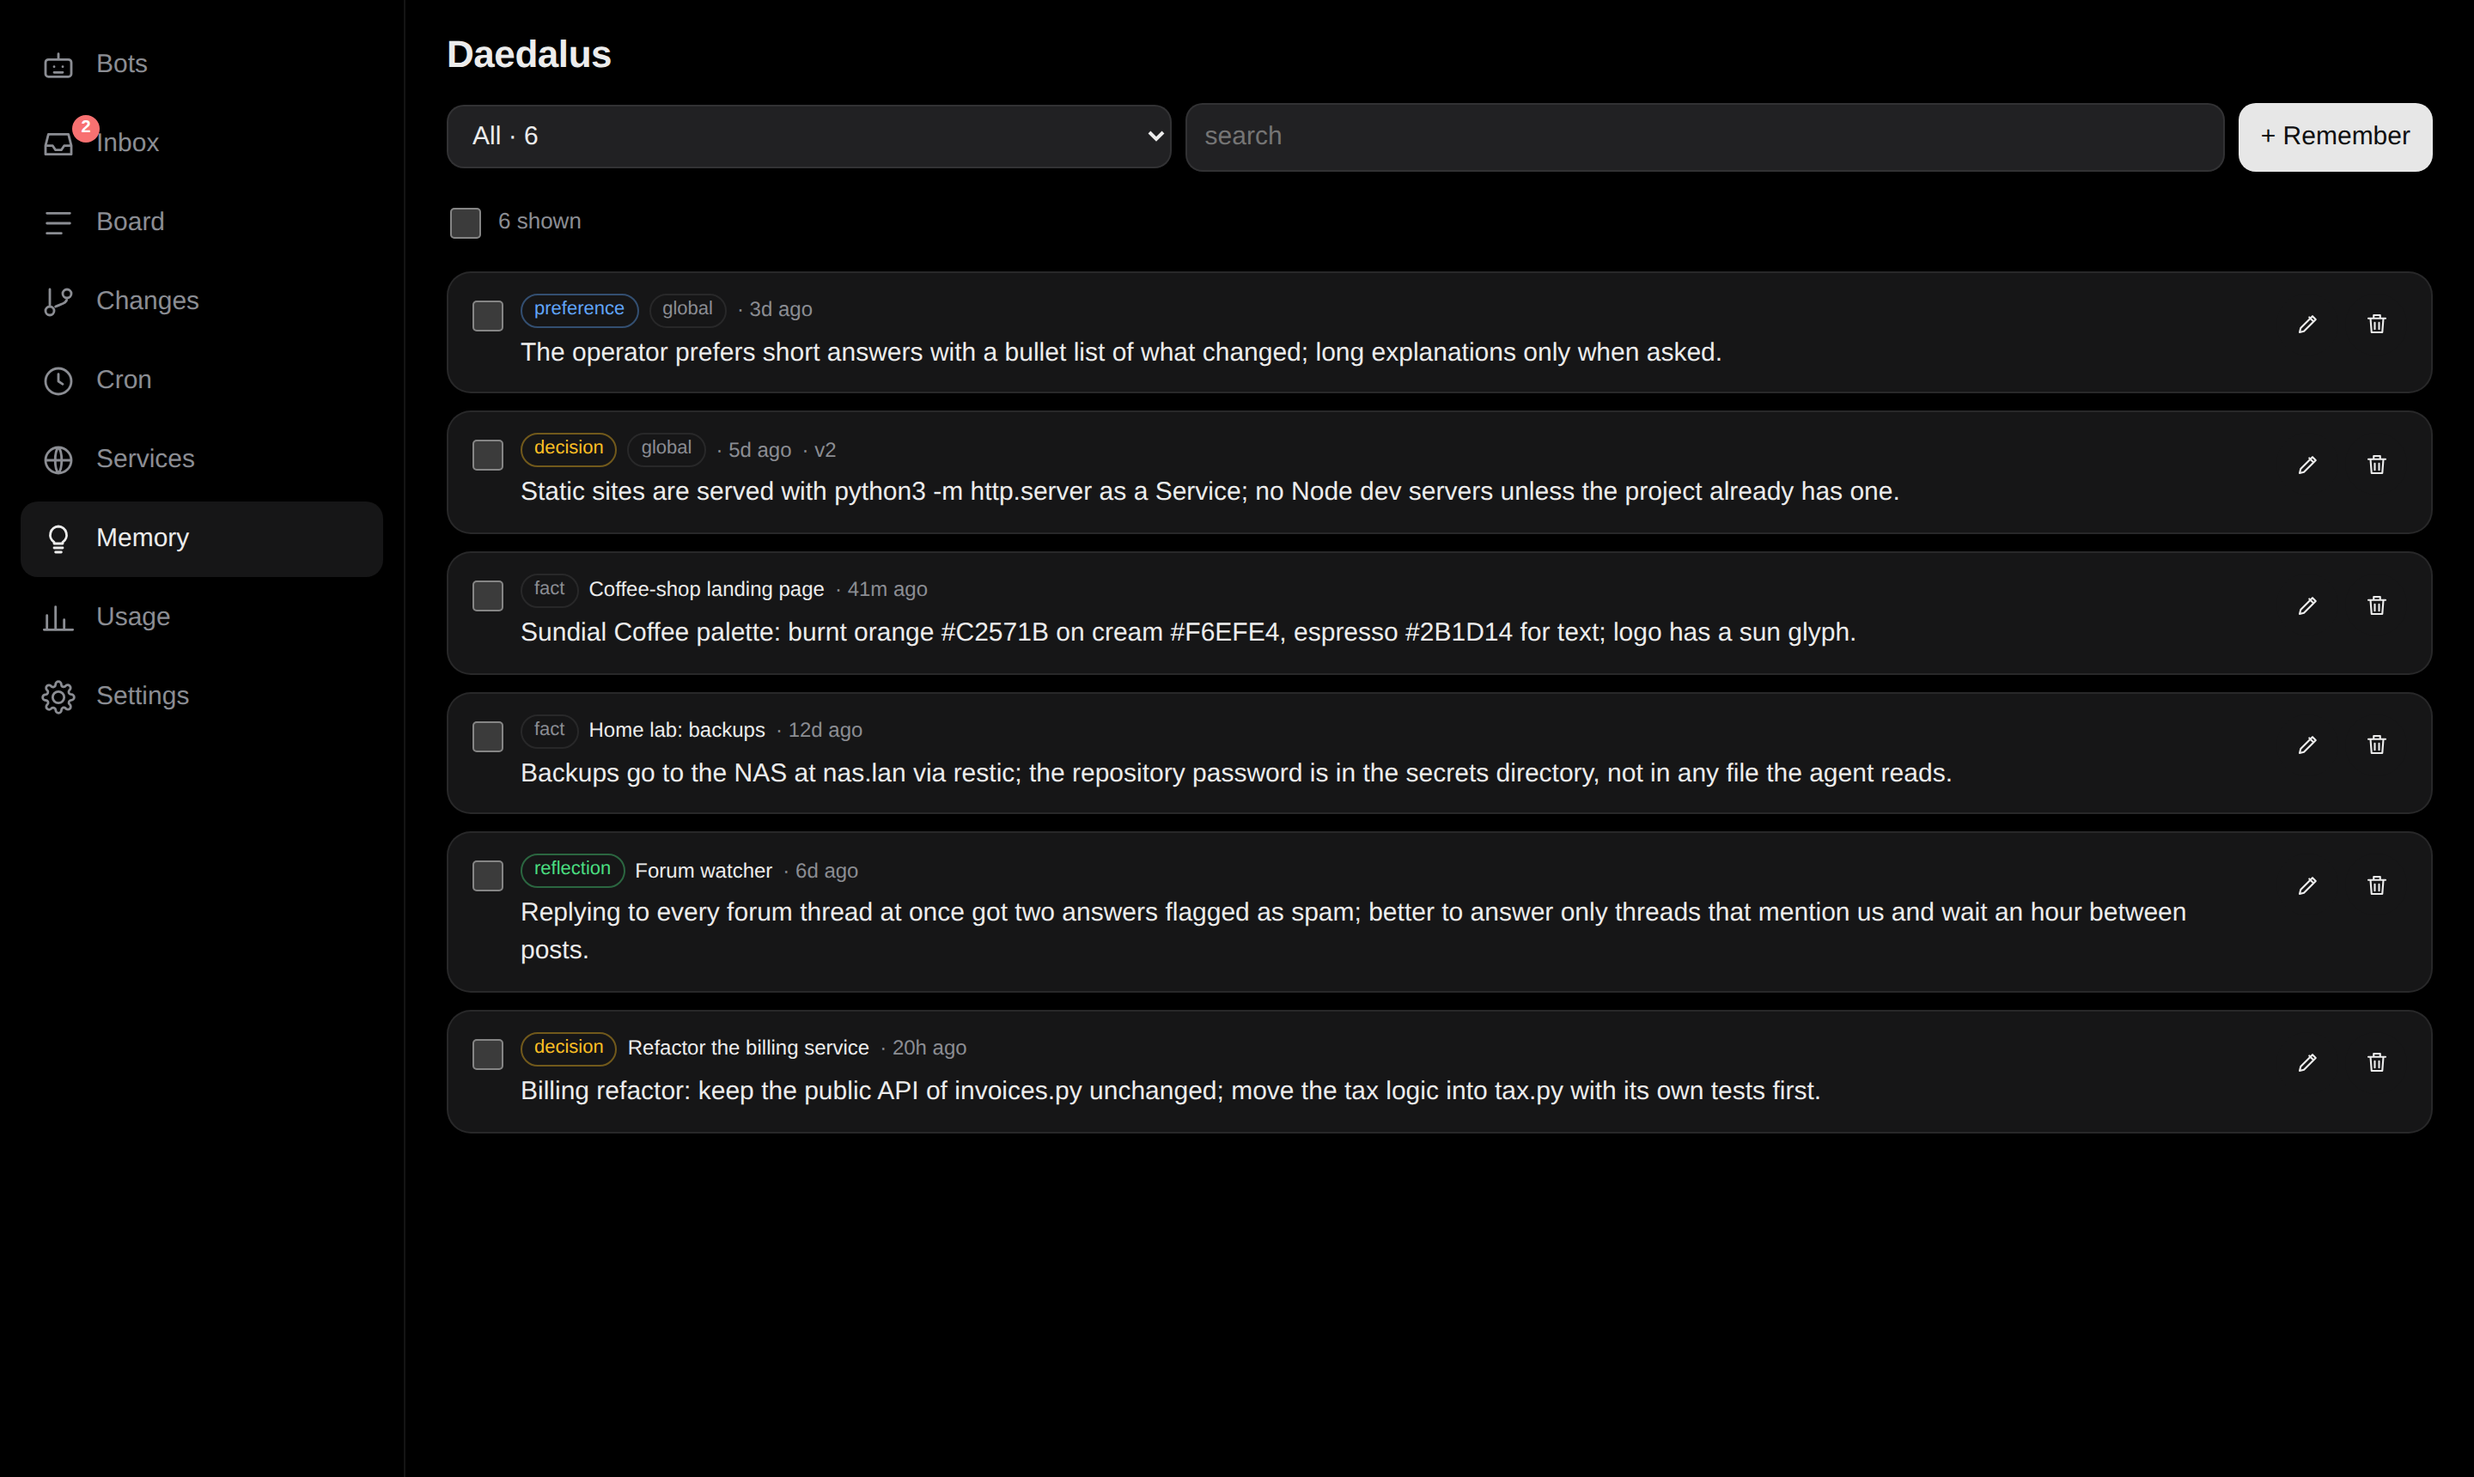
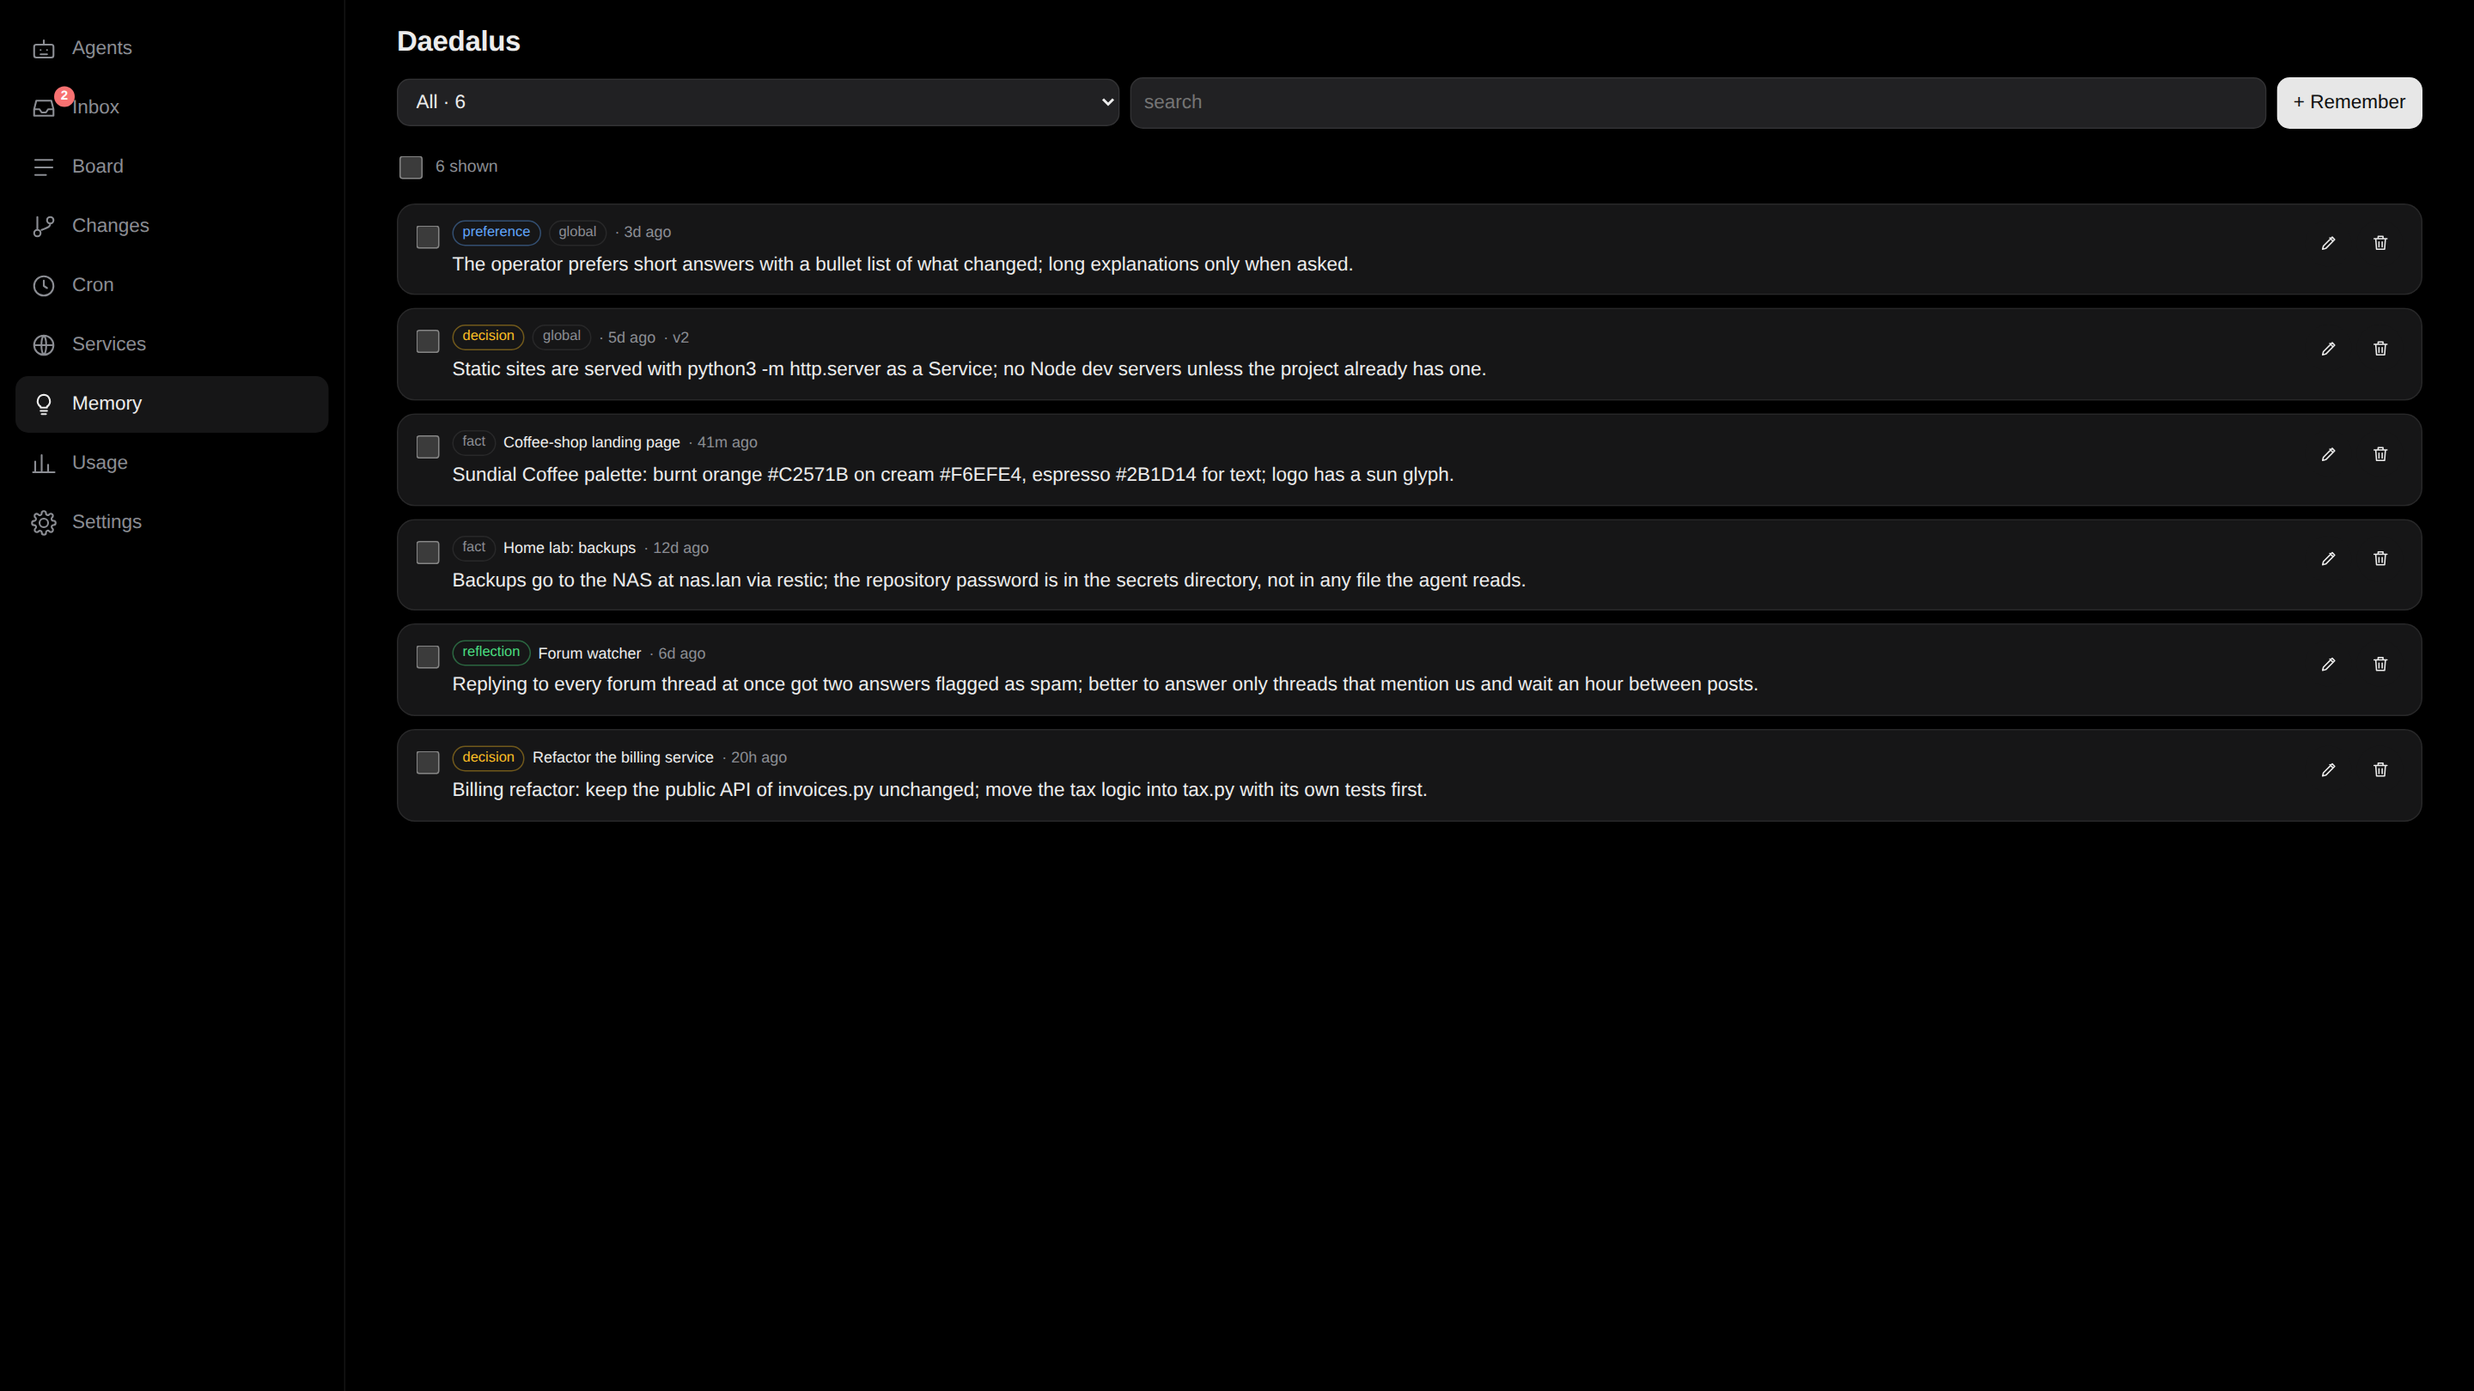
README: styled diagram renders, screenshots at desk resolution; Bots is Agents
The mermaid sources stay in docs/diagrams beside the PNGs. The preview in the
earlier files screenshot showed PNG bytes because the stand-in API served
every download as the logo; the app itself was right.

diff --git a/miniapp/src/screens/Sessions.tsx b/miniapp/src/screens/Sessions.tsx
@@ -86,7 +86,7 @@ export function SessionsScreen({ onOpen, toast }: { onOpen: (id: string) => void
     <>
       <div className="btnrow" style={{ marginTop: 0, marginBottom: 12 }}>
         <button className="btn primary" onClick={() => setCreating((v) => !v)}>
-          {creating ? "Cancel" : "+ New bot"}
+          {creating ? "Cancel" : "+ New agent"}
         </button>
         <button className={`btn ${showWorkspaces ? "primary" : ""}`} onClick={() => setShowWorkspaces((v) => !v)} title="The directories sessions work in">
           <Icon name="folder" size={15} /> Workspaces
@@ -139,7 +139,7 @@ export function SessionsScreen({ onOpen, toast }: { onOpen: (id: string) => void
         </div>
       )}
       {sessions === null && <div className="empty">Loading…</div>}
-      {sessions !== null && sessions.length === 0 && <div className="empty">No sessions yet. Create one, or write to the bot in Telegram.</div>}
+      {sessions !== null && sessions.length === 0 && <div className="empty">No agents yet. Create one, or write to the bot in Telegram.</div>}
       {active.length > 0 && <div className="section-title">Active</div>}
       {active.map(group)}
       {rest.length > 0 && <div className="section-title">Roster</div>}

diff --git a/miniapp/src/screens/Session.tsx b/miniapp/src/screens/Session.tsx
@@ -209,7 +209,7 @@ export function SessionScreen({ id, onBack, onOpen, toast, pane, onSplit }: Sess
           toast(`reverted: ${r.dropped} message(s) removed${ws}`);
         } else {
           const r = await api.post<{ id: string; title: string; messages: number }>(`/api/sessions/${id}/fork`, { seq });
-          toast(`forked into "${r.title}" (${r.messages} messages) — open it from the Bots tab`);
+          toast(`forked into "${r.title}" (${r.messages} messages) — open it from the Agents tab`);
         }
         load();
       } catch (e) {

diff --git a/miniapp/src/App.tsx b/miniapp/src/App.tsx
@@ -37,7 +37,7 @@ class ErrorBoundary extends Component<{ children: ReactNode }, { error: Error | 
 }
 
 const TABS: { id: Tab; label: string; icon: IconName }[] = [
-  { id: "sessions", label: "Bots", icon: "bots" },
+  { id: "sessions", label: "Agents", icon: "bots" },
   { id: "inbox", label: "Inbox", icon: "inbox" },
   { id: "board", label: "Board", icon: "board" },
   { id: "proposals", label: "Changes", icon: "changes" },

diff --git a/README.md b/README.md
@@ -45,7 +45,7 @@ Each forum topic is a session with its own workspace. Files in, files out, voice
 <td width="33%" valign="top">
 
 **🖥 A real web app**<br/>
-Roster, live transcripts, file browser with previews (images, Markdown, CSV, PDF, Word, Excel), two sessions side by side, drag-and-drop and clipboard attachments, a microphone. Installable as a PWA.
+Agents, live transcripts, file browser with previews (images, Markdown, CSV, PDF, Word, Excel), two sessions side by side, drag-and-drop and clipboard attachments, a microphone. Installable as a PWA.
 
 </td>
 <td width="33%" valign="top">
@@ -81,11 +81,11 @@ Provider keys live in a key-proxy container that injects them into upstream call
 
 <table>
 <tr>
-<td width="50%"><img src="docs/screenshots/bots.png" alt="The roster: active sessions, subagents under their leaders, loops" /></td>
+<td width="50%"><img src="docs/screenshots/bots.png" alt="Agents: active sessions, subagents under their leaders, loops" /></td>
 <td width="50%"><img src="docs/screenshots/dual.png" alt="Two sessions side by side on a wide screen" /></td>
 </tr>
 <tr>
-<td align="center"><sub>The roster — subagents under their leader, loop agents with their cadence</sub></td>
+<td align="center"><sub>Agents — subagents under their leader, loop agents with their cadence</sub></td>
 <td align="center"><sub>Two sessions side by side; each pane has its own files and settings</sub></td>
 </tr>
 <tr>
@@ -107,7 +107,7 @@ Provider keys live in a key-proxy container that injects them into upstream call
 </table>
 
 <p align="center">
-  <img src="docs/screenshots/phone-bots.png" width="30%" alt="Phone: the roster" />
+  <img src="docs/screenshots/phone-bots.png" width="30%" alt="Phone: agents" />
   <img src="docs/screenshots/phone-session.png" width="30%" alt="Phone: a session" />
   <img src="docs/screenshots/phone-memory.png" width="30%" alt="Phone: memory" />
 </p>
@@ -115,70 +115,21 @@ Provider keys live in a key-proxy container that injects them into upstream call
 
 ## How it is put together
 
-```mermaid
-flowchart LR
-    Op([Operator]) -- Telegram --> TG[telegram-bot-api<br/>local Bot API]
-    Op -- HTTPS --> RP[reverse proxy<br/>your domain]
-    TG --> D
-    RP --> D
+<p align="center"><img src="docs/diagrams/containers.png" alt="Containers: operator → Telegram / reverse proxy → the agent container (supervisor, bot, tools, workspaces, state), key proxy, SearXNG, rebuilder" width="100%" /></p>
 
-    subgraph host["Docker host"]
-        subgraph agent["daedalus container"]
-            SV[supervisor<br/>PID 1 · read-only to the agent] --> D[bot + API + Mini App]
-            D --> T[tools: shell · files · web · vision · MCP · services]
-            T --> WS[(workspaces volume)]
-            D --> ST[(state volume<br/>SQLite · blobs · snapshots)]
-        end
-        KP[key proxy<br/>holds provider keys · daily budget] --> UP[(model providers)]
-        SX[SearXNG<br/>metasearch]
-        RB[rebuilder<br/>only container with the docker socket]
-    end
-
-    D -- "no keys inside" --> KP
-    T --> SX
-    SV -- "trigger file" --> RB
-    RB -- "git reset · build · restart" --> agent
-    T -- "ServiceStart · ports 8100-8119" --> Op
-```
+<sub>Diagram sources: <code>docs/diagrams/</code> is rendered from the mermaid text kept beside the README.</sub>
 
 Five containers, one job each. The agent container has no provider keys and no docker socket; the supervisor and the governance rules are mounted read-only. Services the agent hosts (a demo site, a dev server) listen on a published port range and can be shared through your domain — to anyone, or to whoever holds a key — without opening another port.
 
 ## A run, step by step
 
-```mermaid
-sequenceDiagram
-    autonumber
-    participant You
-    participant S as Session
-    participant M as Model
-    participant T as Tools
-    You->>S: message, files, a voice note
-    S->>M: history + system prompt (rules, brief, skills index, memory)
-    loop until the answer
-        M->>T: Exec / Read / Edit / WebSearch / ImageView / SubAgent …
-        T-->>M: result (clipped, secrets masked)
-        You-->>S: a steer lands before the next step
-    end
-    M-->>S: answer (Markdown)
-    S-->>You: streamed to Telegram and the app
-    S->>S: snapshot · usage booked · compact when the window fills
-```
+<p align="center"><img src="docs/diagrams/run.png" alt="A run: the message, the prompt, the tool loop with steers, the streamed answer, the snapshot and compaction" width="88%" /></p>
 
 What makes long sessions work: the **transcript** keeps everything, the **working history** the model sees is compacted into summaries when it grows (with `HistoryExpand` to read the originals back), a **revert** restores the history *and* the workspace to any earlier turn, a **fork** starts a new session from one, and `/clear` starts over while keeping the files.
 
 ## Self-development
 
-```mermaid
-flowchart LR
-    A[SelfWorkspace<br/>git worktree on a branch] --> B[edit · test · commit]
-    B --> C[SelfPropose<br/>pull request]
-    C --> D{You, in the chat}
-    D -- approve --> E[merge]
-    D -- reject + reason --> A
-    E --> F[SelfRebuild when idle<br/>git reset · preflight · restart]
-    F -- preflight fails --> G[rollback to the last known-good build]
-    F -- ok --> H[new build running]
-```
+<p align="center"><img src="docs/diagrams/selfdev.png" alt="Self-development: worktree → edit → pull request → your approval in the chat → merge → rebuild → rollback on a failed preflight" width="100%" /></p>
 
 The PR text passes a public-text gate (nothing about your machine leaks into a public repository), the diff is checked for references it must not carry, and `GOVERNANCE.md` — the rules the agent always sees and can never edit — is mounted read-only. Approval is manual by default; `/approval auto` hands it over when you trust it.
 
